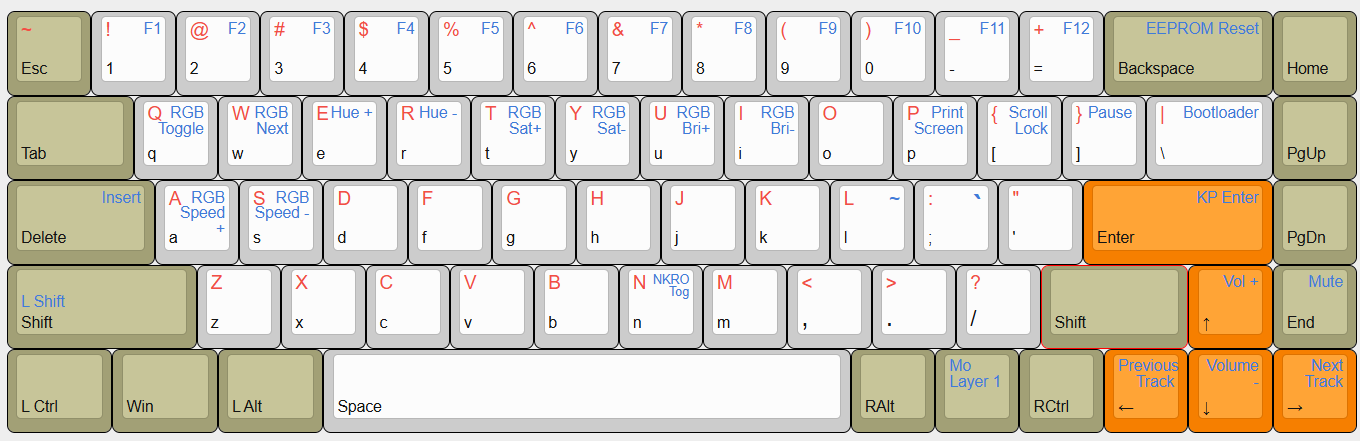
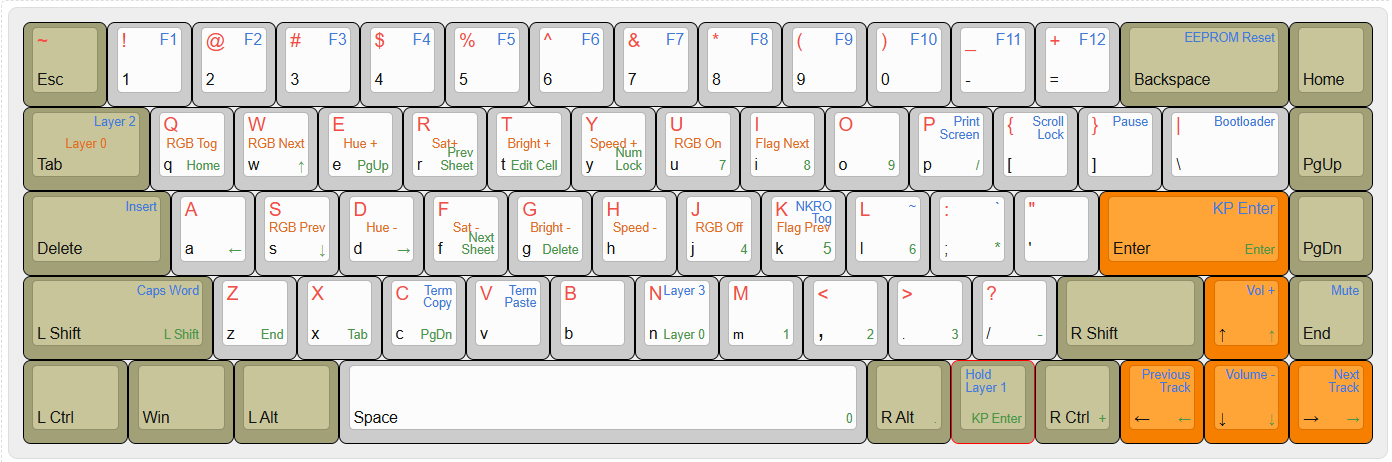
updated layout

diff --git a/dz65rgb_v3/readme.md b/dz65rgb_v3/readme.md
@@ -10,7 +10,6 @@ First custom keyboard I assembled from parts.
 
 
 # Layout
+<a href="https://www.keyboard-layout-editor.com/##@@_c=%23a2a076&t=%23d32f2f%0A%23111111&f2:2%3B&=~%0AEsc&_c=%23cccccc&t=%23d32f2f%0A%23111111%0A%231565c0%3B&=!%0A1%0AF1&=%2F@%0A2%0AF2&=%23%0A3%0AF3&=$%0A4%0AF4&=%25%0A5%0AF5&=%5E%0A6%0AF6&=%2F&%0A7%0AF7&=*%0A8%0AF8&=(%0A9%0AF9&=)%0A0%0AF10&=%2F_%0A-%0AF11&=+%0A%2F=%0AF12&_c=%23a2a076&fa@:0&:2&:1%3B&w:2%3B&=%0ABackspace%0AEEPROM%20Reset&_t=%23d32f2f%0A%23111111%3B&=%0AHome%3B&@_t=%23d32f2f%0A%23111111%0A%231565c0%0A%0A%0A%0A%0A%0A%0A%23c15500&fa@:0&:2&:1&:0&:0&:0&:0&:0&:0&:1%3B&w:1.5%3B&=%0ATab%0ALayer%202%0A%0A%0A%0A%0A%0A%0ALayer%200&_c=%23cccccc&t=%23d32f2f%0A%23111111%0A%0A%232e7d32%0A%0A%0A%0A%0A%0A%23c15500&fa@:0&:2&:1&:1&:0&:0&:0&:0&:0&:1%3B%3B&=Q%0Aq%0A%0AHome%0A%0A%0A%0A%0A%0ARGB%20Tog&=W%0Aw%0A%0A%E2%86%91%0A%0A%0A%0A%0A%0ARGB%20Next&=E%0Ae%0A%0APgUp%0A%0A%0A%0A%0A%0AHue%20+&=R%0Ar%0A%0APrev%20Sheet%0A%0A%0A%0A%0A%0ASat+&=T%0At%0A%0AEdit%20Cell%0A%0A%0A%0A%0A%0ABright%20+&=Y%0Ay%0A%0ANum%20Lock%0A%0A%0A%0A%0A%0ASpeed%20+&=U%0Au%0A%0A7%0A%0A%0A%0A%0A%0ARGB%20On&=I%0Ai%0A%0A8%0A%0A%0A%0A%0A%0AFlag%20Next&_t=%23d32f2f%0A%23111111%0A%0A%232e7d32%3B&=O%0Ao%0A%0A9&_t=%23d32f2f%0A%23111111%0A%231565c0%0A%232e7d32%3B&=P%0Ap%0APrint%20Screen%0A%2F%2F&_t=%23d32f2f%0A%23111111%0A%231565c0%3B&=%7B%0A%5B%0AScroll%20Lock&=%7D%0A%5D%0APause&_w:1.5%3B&=%7C%0A%5C%0ABootloader&_c=%23a2a076&t=%23d32f2f%0A%23111111%3B&=%0APgUp%3B&@_t=%23d32f2f%0A%23111111%0A%231565c0&w:1.75%3B&=%0ADelete%0AInsert&_c=%23cccccc&t=%23d32f2f%0A%23111111%0A%0A%232e7d32%3B&=A%0Aa%0A%0A%E2%86%90&_t=%23d32f2f%0A%23111111%0A%0A%232e7d32%0A%0A%0A%0A%0A%0A%23c15500%3B&=S%0As%0A%0A%E2%86%93%0A%0A%0A%0A%0A%0ARGB%20Prev&=D%0Ad%0A%0A%E2%86%92%0A%0A%0A%0A%0A%0AHue%20-&=F%0Af%0A%0ANext%20Sheet%0A%0A%0A%0A%0A%0ASat%20-&=G%0Ag%0A%0ADelete%0A%0A%0A%0A%0A%0ABright%20-&_t=%23d32f2f%0A%23111111%0A%0A%0A%0A%0A%0A%0A%0A%23c15500%3B&=H%0Ah%0A%0A%0A%0A%0A%0A%0A%0ASpeed%20-&_t=%23d32f2f%0A%23111111%0A%0A%232e7d32%0A%0A%0A%0A%0A%0A%23c15500%3B&=J%0Aj%0A%0A4%0A%0A%0A%0A%0A%0ARGB%20Off&_t=%23d32f2f%0A%23111111%0A%231565c0%0A%232e7d32%0A%0A%0A%0A%0A%0A%23c15500&fa@:0&:2&:1&:2&:0&:0&:0&:0&:0&:1%3B%3B&=K%0Ak%0ANKRO%20Tog%0A5%0A%0A%0A%0A%0A%0AFlag%20Prev&_t=%23d32f2f%0A%23111111%0A%231565c0%0A%232e7d32&fa@:0&:2&:1&:1%3B%3B&=L%0Al%0A~%0A6&_f2:2%3B&=%2F:%0A%2F%3B%0A%60%0A*&_t=%23d32f2f%0A%23111111%3B&=%22%0A'&_c=%23f67f00&t=%23d32f2f%0A%23111111%0A%231565c0%0A%232e7d32&fa@:0&:2&:2&:1%3B&w:2.25%3B&=%0AEnter%0AKP%20Enter%0AEnter&_c=%23a2a076&t=%23d32f2f%0A%23111111%3B&=%0APgDn%3B&@_t=%23d32f2f%0A%23111111%0A%231565c0%0A%232e7d32&fa@:0&:2&:1&:1%3B&w:2.25%3B&=%0AL%20Shift%0ACaps%20Word%0AL%20Shift&_c=%23cccccc&t=%23d32f2f%0A%23111111%0A%0A%232e7d32%3B&=Z%0Az%0A%0AEnd&=X%0Ax%0A%0ATab&_t=%23d32f2f%0A%23111111%0A%231565c0%0A%232e7d32%3B&=C%0Ac%0ATerm%20Copy%0APgDn&_t=%23d32f2f%0A%23111111%0A%231565c0%3B&=V%0Av%0ATerm%20Paste&_t=%23d32f2f%0A%23111111%3B&=B%0Ab&_t=%23d32f2f%0A%23111111%0A%231565c0%0A%232e7d32%3B&=N%0An%0ALayer%203%0ALayer%200&_t=%23d32f2f%0A%23111111%0A%0A%232e7d32&f2:1%3B&=M%0Am%0A%0A1&_fa@:0&:5&:1&:1%3B%3B&=%3C%0A,%0A%0A2&_f2:1%3B&=%3E%0A.%0A%0A3&_fa@:0&:2&:1&:2%3B%3B&=%3F%0A%2F%2F%0A%0A-&_c=%23a2a076&t=%23d32f2f%0A%23111111&w:1.75%3B&=%0AR%20Shift&_c=%23f67f00&t=%23d32f2f%0A%23111111%0A%231565c0%0A%232e7d32&fa@:0&:2&:1&:1%3B%3B&=%0A%E2%86%91%0AVol%20+%0A%E2%86%91&_c=%23a2a076&t=%23d32f2f%0A%23111111%0A%231565c0%3B&=%0AEnd%0AMute%3B&@_t=%23d32f2f%0A%23111111&w:1.25%3B&=%0AL%20Ctrl&_w:1.25%3B&=%0AWin&_w:1.25%3B&=%0AL%20Alt&_c=%23cccccc&t=%23d32f2f%0A%23111111%0A%0A%232e7d32&w:6.25%3B&=%0ASpace%0A%0A0&_c=%23a2a076%3B&=%0AR%20Alt%0A%0A.&_t=%231565c0%0A%0A%0A%232e7d32&fa@:1&:2&:1&:1%3B%3B&=Hold%20Layer%201%0A%0A%0AKP%20Enter&_t=%23d32f2f%0A%23111111%0A%0A%232e7d32%3B&=%0AR%20Ctrl%0A%0A+&_c=%23f67f00&t=%23d32f2f%0A%23111111%0A%231565c0%0A%232e7d32%3B&=%0A%E2%86%90%0APrevious%20Track%0A%E2%86%90&=%0A%E2%86%93%0AVolume%20-%0A%E2%86%93&=%0A%E2%86%92%0ANext%20Track%0A%E2%86%92">keyboard-layout-editor.com Perm Link</a>
+
 <img src="images/layout-1.png" alt="dz68rgb v3 layout" style="width:100%; height:auto;">
-
-
-